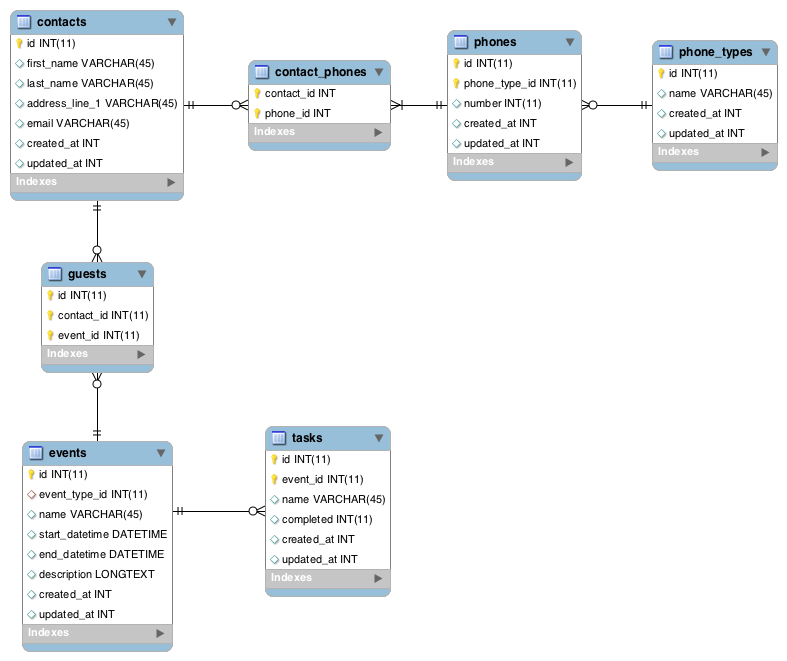
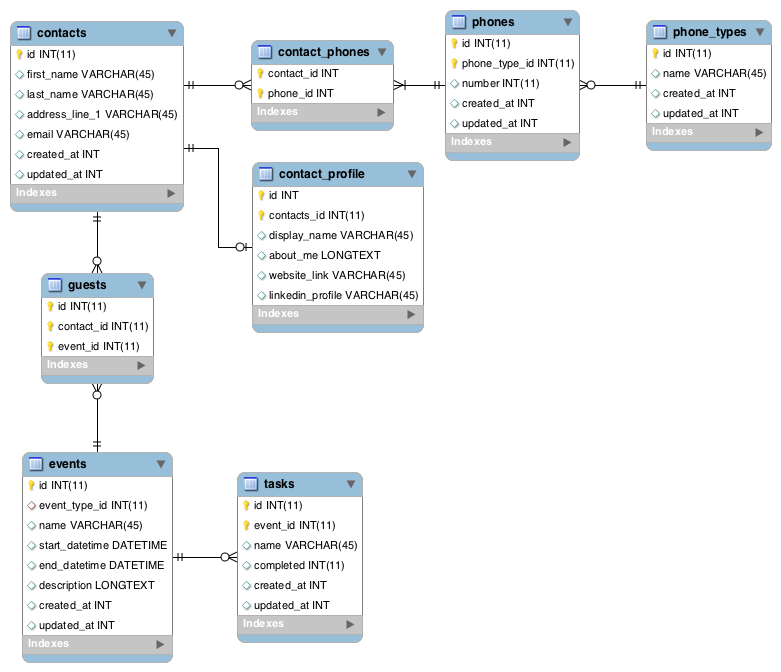
Updated models

diff --git a/fuel/app/views/template.php b/fuel/app/views/template.php
@@ -1,0 +1,45 @@
+<!DOCTYPE html>
+<html>
+<head>
+	<meta charset="utf-8">
+	<title><?php echo $title; ?></title>
+	<?php echo Asset::css('bootstrap.css'); ?>
+	<style>
+		body { margin: 40px; }
+	</style>
+</head>
+<body>
+	<div class="container">
+		<div class="col-md-12">
+			<h1><?php echo $title; ?></h1>
+			<hr>
+<?php if (Session::get_flash('success')): ?>
+			<div class="alert alert-success">
+				<strong>Success</strong>
+				<p>
+				<?php echo implode('</p><p>', e((array) Session::get_flash('success'))); ?>
+				</p>
+			</div>
+<?php endif; ?>
+<?php if (Session::get_flash('error')): ?>
+			<div class="alert alert-error">
+				<strong>Error</strong>
+				<p>
+				<?php echo implode('</p><p>', e((array) Session::get_flash('error'))); ?>
+				</p>
+			</div>
+<?php endif; ?>
+		</div>
+		<div class="col-md-12">
+<?php echo $content; ?>
+		</div>
+		<footer>
+			<p class="pull-right">Page rendered in {exec_time}s using {mem_usage}mb of memory.</p>
+			<p>
+				<a href="http://fuelphp.com">FuelPHP</a> is released under the MIT license.<br>
+				<small>Version: <?php echo e(Fuel::VERSION); ?></small>
+			</p>
+		</footer>
+	</div>
+</body>
+</html>

diff --git a/fuel/app/classes/controller/members.php b/fuel/app/classes/controller/members.php
@@ -1,0 +1,29 @@
+<?php
+
+class Controller_Members extends Controller_Template
+{
+	public function action_view()
+	{
+		$data["subnav"] = array('view'=> 'active' );
+		$this->template->title = 'Members &raquo; View';
+		$this->template->content = View::forge('members/view', $data);
+	}
+
+	public function action_view_profile()
+	{
+		$contact_data = Model_Contact::query()
+			->related('contact_profile')
+			->get_one();
+
+		$contact_data->first_name = 'Bill';
+		$contact_data->contact_profile->display_name = 'AwesomeBill';
+		$contact_data->save();
+
+		Debug::dump($contact_data);
+		$data['contact_data'] = $contact_data;
+		$data["subnav"] = array('view_profile'=> 'active' );
+		$this->template->title = 'Members &raquo; View profile';
+		$this->template->content = View::forge('members/view_profile', $data);
+	}
+
+}

diff --git a/fuel/app/migrations/009_create_contact_profiles.php b/fuel/app/migrations/009_create_contact_profiles.php
@@ -1,0 +1,25 @@
+<?php
+
+namespace Fuel\Migrations;
+
+class Create_contact_profiles
+{
+	public function up()
+	{
+		\DBUtil::create_table('contact_profiles', array(
+			'id' => array('constraint' => 11, 'type' => 'int', 'auto_increment' => true, 'unsigned' => true),
+			'contact_id' => array('constraint' => 11, 'type' => 'int'),
+			'display_name' => array('constraint' => 45, 'type' => 'varchar'),
+			'about_me' => array('type' => 'longtext'),
+			'website_link' => array('constraint' => 60, 'type' => 'varchar'),
+			'created_at' => array('constraint' => 11, 'type' => 'int', 'null' => true),
+			'updated_at' => array('constraint' => 11, 'type' => 'int', 'null' => true),
+
+		), array('id'));
+	}
+
+	public function down()
+	{
+		\DBUtil::drop_table('contact_profiles');
+	}
+}

diff --git a/fuel/app/classes/model/contact/profile.php b/fuel/app/classes/model/contact/profile.php
@@ -1,13 +1,13 @@
 <?php
 
-class Model_Contact extends \Orm\Model
+class Model_Contact_Profile extends \Orm\Model
 {
 	protected static $_properties = array(
 		'id',
-		'first_name',
-		'last_name',
-		'address_line_1',
-		'email',
+		'contact_id',
+		'display_name',
+		'about_me',
+		'website_link',
 		'created_at',
 		'updated_at',
 	);
@@ -22,9 +22,8 @@ class Model_Contact extends \Orm\Model
 			'mysql_timestamp' => false,
 		),
 	);
+	protected static $_table_name = 'contact_profiles';
 
-	protected static $_table_name = 'contacts';
-
-	protected static $_has_one = array('contact_profile');
+	protected static $_belongs_to = array('contact');
 
 }

diff --git a/fuel/app/views/members/view_profile.php b/fuel/app/views/members/view_profile.php
@@ -1,0 +1,10 @@
+<ul class="nav nav-pills">
+	<li class='<?php echo Arr::get($subnav, "view" ); ?>'><?php echo Html::anchor('members/view','View');?></li>
+	<li class='<?php echo Arr::get($subnav, "view_profile" ); ?>'><?php echo Html::anchor('members/view_profile','View profile');?></li>
+
+</ul>
+<p>View profile</p>
+
+<?php
+	//echo $contact_data[1]->contact_profile->display_name;
+?>

diff --git a/fuel/app/migrations/008_change_contact_phones.php b/fuel/app/migrations/008_change_contact_phones.php
@@ -1,0 +1,18 @@
+<?php
+
+namespace Fuel\Migrations;
+
+class Change_contact_phones
+{
+	public function up()
+	{
+		\DBUtil::drop_fields('contact_phones', 'id');
+	}
+
+	public function down()
+	{
+		\DBUtil::add_fields('contact_phones', array(
+    		'id' => array('constraint' => 11, 'type' => 'int', 'auto_increment' => true, 'unsigned' => true))
+		);
+	}
+}

diff --git a/fuel/app/views/members/view.php b/fuel/app/views/members/view.php
@@ -1,0 +1,6 @@
+<ul class="nav nav-pills">
+	<li class='<?php echo Arr::get($subnav, "view" ); ?>'><?php echo Html::anchor('members/view','View');?></li>
+	<li class='<?php echo Arr::get($subnav, "view_profile" ); ?>'><?php echo Html::anchor('members/view_profile','View profile');?></li>
+
+</ul>
+<p>View</p>

diff --git a/fuel/app/config/development/migrations.php b/fuel/app/config/development/migrations.php
@@ -13,6 +13,8 @@ return array(
 				4 => '005_create_contact_phones',
 				5 => '006_create_phones',
 				6 => '007_create_phone_types',
+				7 => '008_change_contact_phones',
+				8 => '009_create_contact_profiles',
 			),
 		),
 		'module' => 

diff --git a/fuel/app/config/crypt.php b/fuel/app/config/crypt.php
@@ -1,0 +1,6 @@
+<?php
+return array(
+	'crypto_key' => '9EICnYufMlNoBOobuMfZIvpE',
+	'crypto_iv' => 'vs0TwkdJkEKc9vAIIMCEUwt8',
+	'crypto_hmac' => 'ikwczoR0QCyUDOsFiw_WEGbM',
+);
